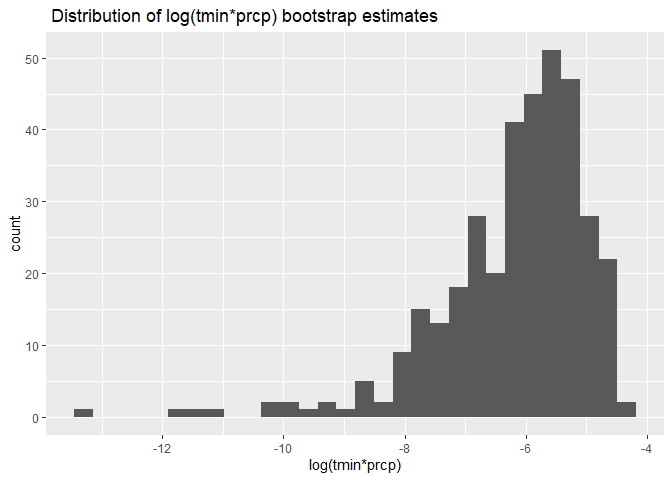
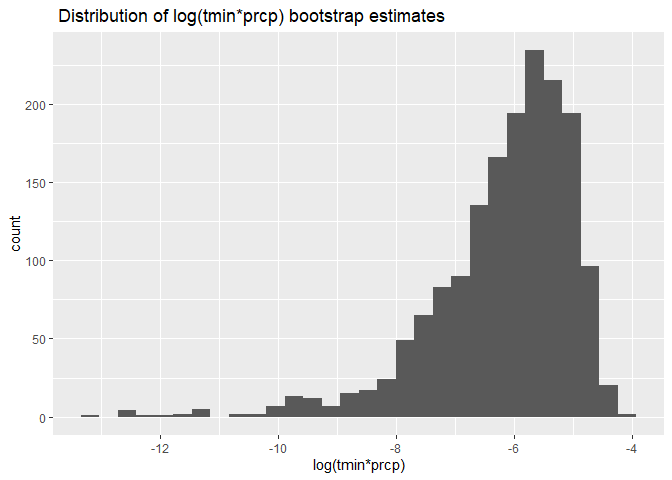
Fixed typo where I was drawing 1000 bootstrap samples instead of 5000 (problem 2).

diff --git a/p8105_hw6_geg2145.md b/p8105_hw6_geg2145.md
@@ -178,7 +178,7 @@ help in computing $log(\beta^1∗\beta^2)$.
 ``` r
 bootstrap_results = 
   df_weather %>%
-  modelr::bootstrap(n = 1000) %>%
+  modelr::bootstrap(n = 5000) %>%
   mutate(
     models = map(strap, \(df) lm(tmax ~ tmin + prcp, 
                                         data = df) ),
@@ -209,7 +209,7 @@ ggplot() + geom_histogram(data = bootstrap_results, aes(x = log.tmin.prcp)) +
 
     ## `stat_bin()` using `bins = 30`. Pick better value with `binwidth`.
 
-    ## Warning: Removed 642 rows containing non-finite values (`stat_bin()`).
+    ## Warning: Removed 3344 rows containing non-finite values (`stat_bin()`).
 
 ![](p8105_hw6_geg2145_files/figure-gfm/p2_plots-1.png)<!-- -->
 
@@ -226,8 +226,8 @@ ggplot() + geom_histogram(data = bootstrap_results, aes(x = r.squared)) +
 **The distribution of $log(\beta^1∗\beta^2)$ is skewed to the left, and
 not a normal distribution. This means confidence intervals that assumed
 a Normal distribution would have been wrong. It has a mean of around
--5.5. There are also 642 NAs as a result of taking the `log` of negative
-values.**
+-5.5. There are also 3344 NAs as a result of taking the `log` of
+negative values.**
 
 **The distribution of $r^2$ is approximately Normal, with mean around
 0.92 and some outliers to both sides.**
@@ -248,8 +248,8 @@ bootstrap_results %>%
 
 | estimate      | ci_lower | ci_upper |
 |:--------------|---------:|---------:|
-| log.tmin.prcp |   -9.321 |   -4.606 |
-| r.squared     |    0.888 |    0.941 |
+| log.tmin.prcp |   -9.445 |   -4.619 |
+| r.squared     |    0.889 |    0.941 |
 
 # Problem 3
 
